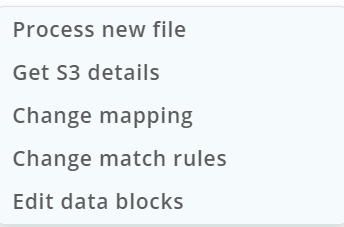
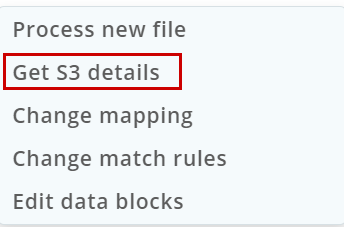
edit pass, resize images

Changed region(s): [[0.0, 0.2159, 0.5523, 0.4009]]

diff --git a/ci-docs/audience-insights/enrichment-dnb.md b/ci-docs/audience-insights/enrichment-dnb.md
@@ -1,14 +1,14 @@
 ---
 title: "Enrichment of company profiles with Dun & Bradstreet"
 description: "General information about the Dun & Bradstreet third-party enrichment."
-ms.date: 04/09/2021
+ms.date: 09/30/2021
 ms.reviewer: mhart
 ms.service: customer-insights
 ms.subservice: audience-insights
 ms.topic: how-to
 author: jodahlMSFT
 ms.author: jodahl
-manager: skummer
+manager: shellyha
 ---
 
 # Enrichment of company profiles with Dun & Bradstreet (preview)
@@ -19,34 +19,24 @@ Dun & Bradstreet provides commercial data, analytics, and insights for businesse
 
 To configure a Dun & Bradstreet enrichment, the following prerequisites must be met:
 
-- You have an active Dun & Bradstreet license.
+- You have an active [Dun & Bradstreet](https://www.dnb.com/) license.
 - You have [unified customer profiles](customer-profiles.md) for companies.
-- A Dun & Bradstreet connection has already been configured by an administrator or you have [administrator](permissions.md#administrator) permissions and the relevant credentials from Dun & Bradstreet Connect. 
-
-Click [here](https://www.dnb.com/&lead_source=microsoft_audienceinsights) for information about the data that Dun & Bradstreet provide and information about how to purchase a Dun & Bradstreet license.
-
-Click [here](https://sso.dnb.com/signin/forgot-password&lead_source=microsoft_audienceinsights) to retrieve credentials if you are an existing Dun & Bradstreet customer.
+- A Dun & Bradstreet [connection](connections.md) has already been configured by an administrator or you have [administrator](permissions.md#administrator) permissions and the relevant credentials from Dun & Bradstreet Connect. 
 
 ## Setting up your Dun & Bradstreet project
 
-Once you have purchased a Dun & Bradstreet license you can set up a project in [Dun & Bradstreet Connect](https://connect.dnb.com?lead_source=microsoft_audienceinsights). The first step is to download this [csv file](media/DnBtemplate.csv) that will be used to map the Audience Insights fields to the corresponding Dun & Bradstreet fields. Use this file in the **Upload data** step of the Dun & Bradstreet project creation wizard. 
+As a licensed user of Dun & Bradstreet, you can set up a project in [Dun & Bradstreet Connect](https://connect.dnb.com?lead_source=microsoft_audienceinsights). 
 
-When you have successfully created the project you can click the dots shown below to expose the menu and choose **Get S3 details**.
 
- :::image type="content" source="media/enrichment-dnb-dots.png" alt-text="Screenshot of dots in a Dun & Bradstreet project.":::
- 
- :::image type="content" source="media/enrichment-dnb-s3info.png" alt-text="Screenshot of selection of s3 information in a Dun & Bradstreet project.":::
+1. Sign in to [Dun & Bradstreet Connect](https://connect.dnb.com?lead_source=microsoft_audienceinsights). To retrieve credentials, [restore your password](https://sso.dnb.com/signin/forgot-password&lead_source=microsoft_audienceinsights).
+1. Download [our csv template file](tbd.md) that will be used to map the audience insights fields to the corresponding Dun & Bradstreet fields. 
+1. Upload the file in the **Upload data** step of the Dun & Bradstreet project creation experience. 
+1. When you have successfully created the project, select the horizontal dots in the Dun & Bradstreet project to see the available options.
+   :::image type="content" source="media/enrichment-dnb-dots.png" alt-text="Screenshot of dots in a Dun & Bradstreet project.":::
+1. Choose **Get S3 details**. Store this information in a safe place You'll it to [set up the connection for the enrichment](#configure-a-connection-for-dun--bradstreet) in audience insights. 
+   :::image type="content" source="media/enrichment-dnb-s3info.png" alt-text="Screenshot of selection of s3 information in a Dun & Bradstreet project.":::
 
-Store this information in a safe place as you will need it for setting up the enrichment in Audience Insights.
 
-<!---  
-In Dun & Bradstreet Connect follow these steps:
-
-1. Click *Create new project* and provide a project name.
-2. Click next, choose a name for your data, and upload the csv file that you downloaded above.
-3. 
-
---->
 
 ## Configure the enrichment
 
@@ -60,9 +50,9 @@ In Dun & Bradstreet Connect follow these steps:
 
 1. Select **Connect to Dun & Bradstreet** to confirm the connection.
 
-1. Select **Next** and choose the **Customer data set** you want to enrich with company data from Dun & Bradstreet. You can select the **Customer** entity to enrich all your customer profiles or select a segment entity to enrich only customer profiles contained in that segment.
+1. Select **Next** and choose the **Customer data set** you want to enrich with company data from Dun & Bradstreet. You can select the **Customer** entity to enrich all your customer profiles or select a segment entity to enrich only unified customer profiles contained in that segment.
 
-1. Select **Next** and define which fields from your unified profiles are used to look for matching company data from Dun & Bradstreet. Either **DUNS number** *or* **Name of company** and **Country** field are required. 
+1. Select **Next** and define which fields from your unified profiles are used to look for matching company data from Dun & Bradstreet. Either **DUNS number** or **Name of company** and **Country** field are required. 
 
    :::image type="content" source="media/enrichment-dnb-mapping.png" alt-text="Dun & Bradstreet field mapping pane.":::
 
@@ -79,7 +69,7 @@ You need to be an administrator to configure connections. Select **Add connectio
 
 1. Enter a name for the connection in the **Display name** box.
 
-1. Provide valid Dun & Bradstreet credentials and Dun & Bradstreet project details *Region, Drop folder path, and Drop folder name*.
+1. Provide valid Dun & Bradstreet credentials and Dun & Bradstreet project details *Region, Drop folder path, and Drop folder name*. You [get this information](#setting-up-your-dun--bradstreet-project) from the Dun & Bradstreet project.
 
 1. Review and provide your consent for **Data privacy and compliance** by selecting **I agree**.
 
